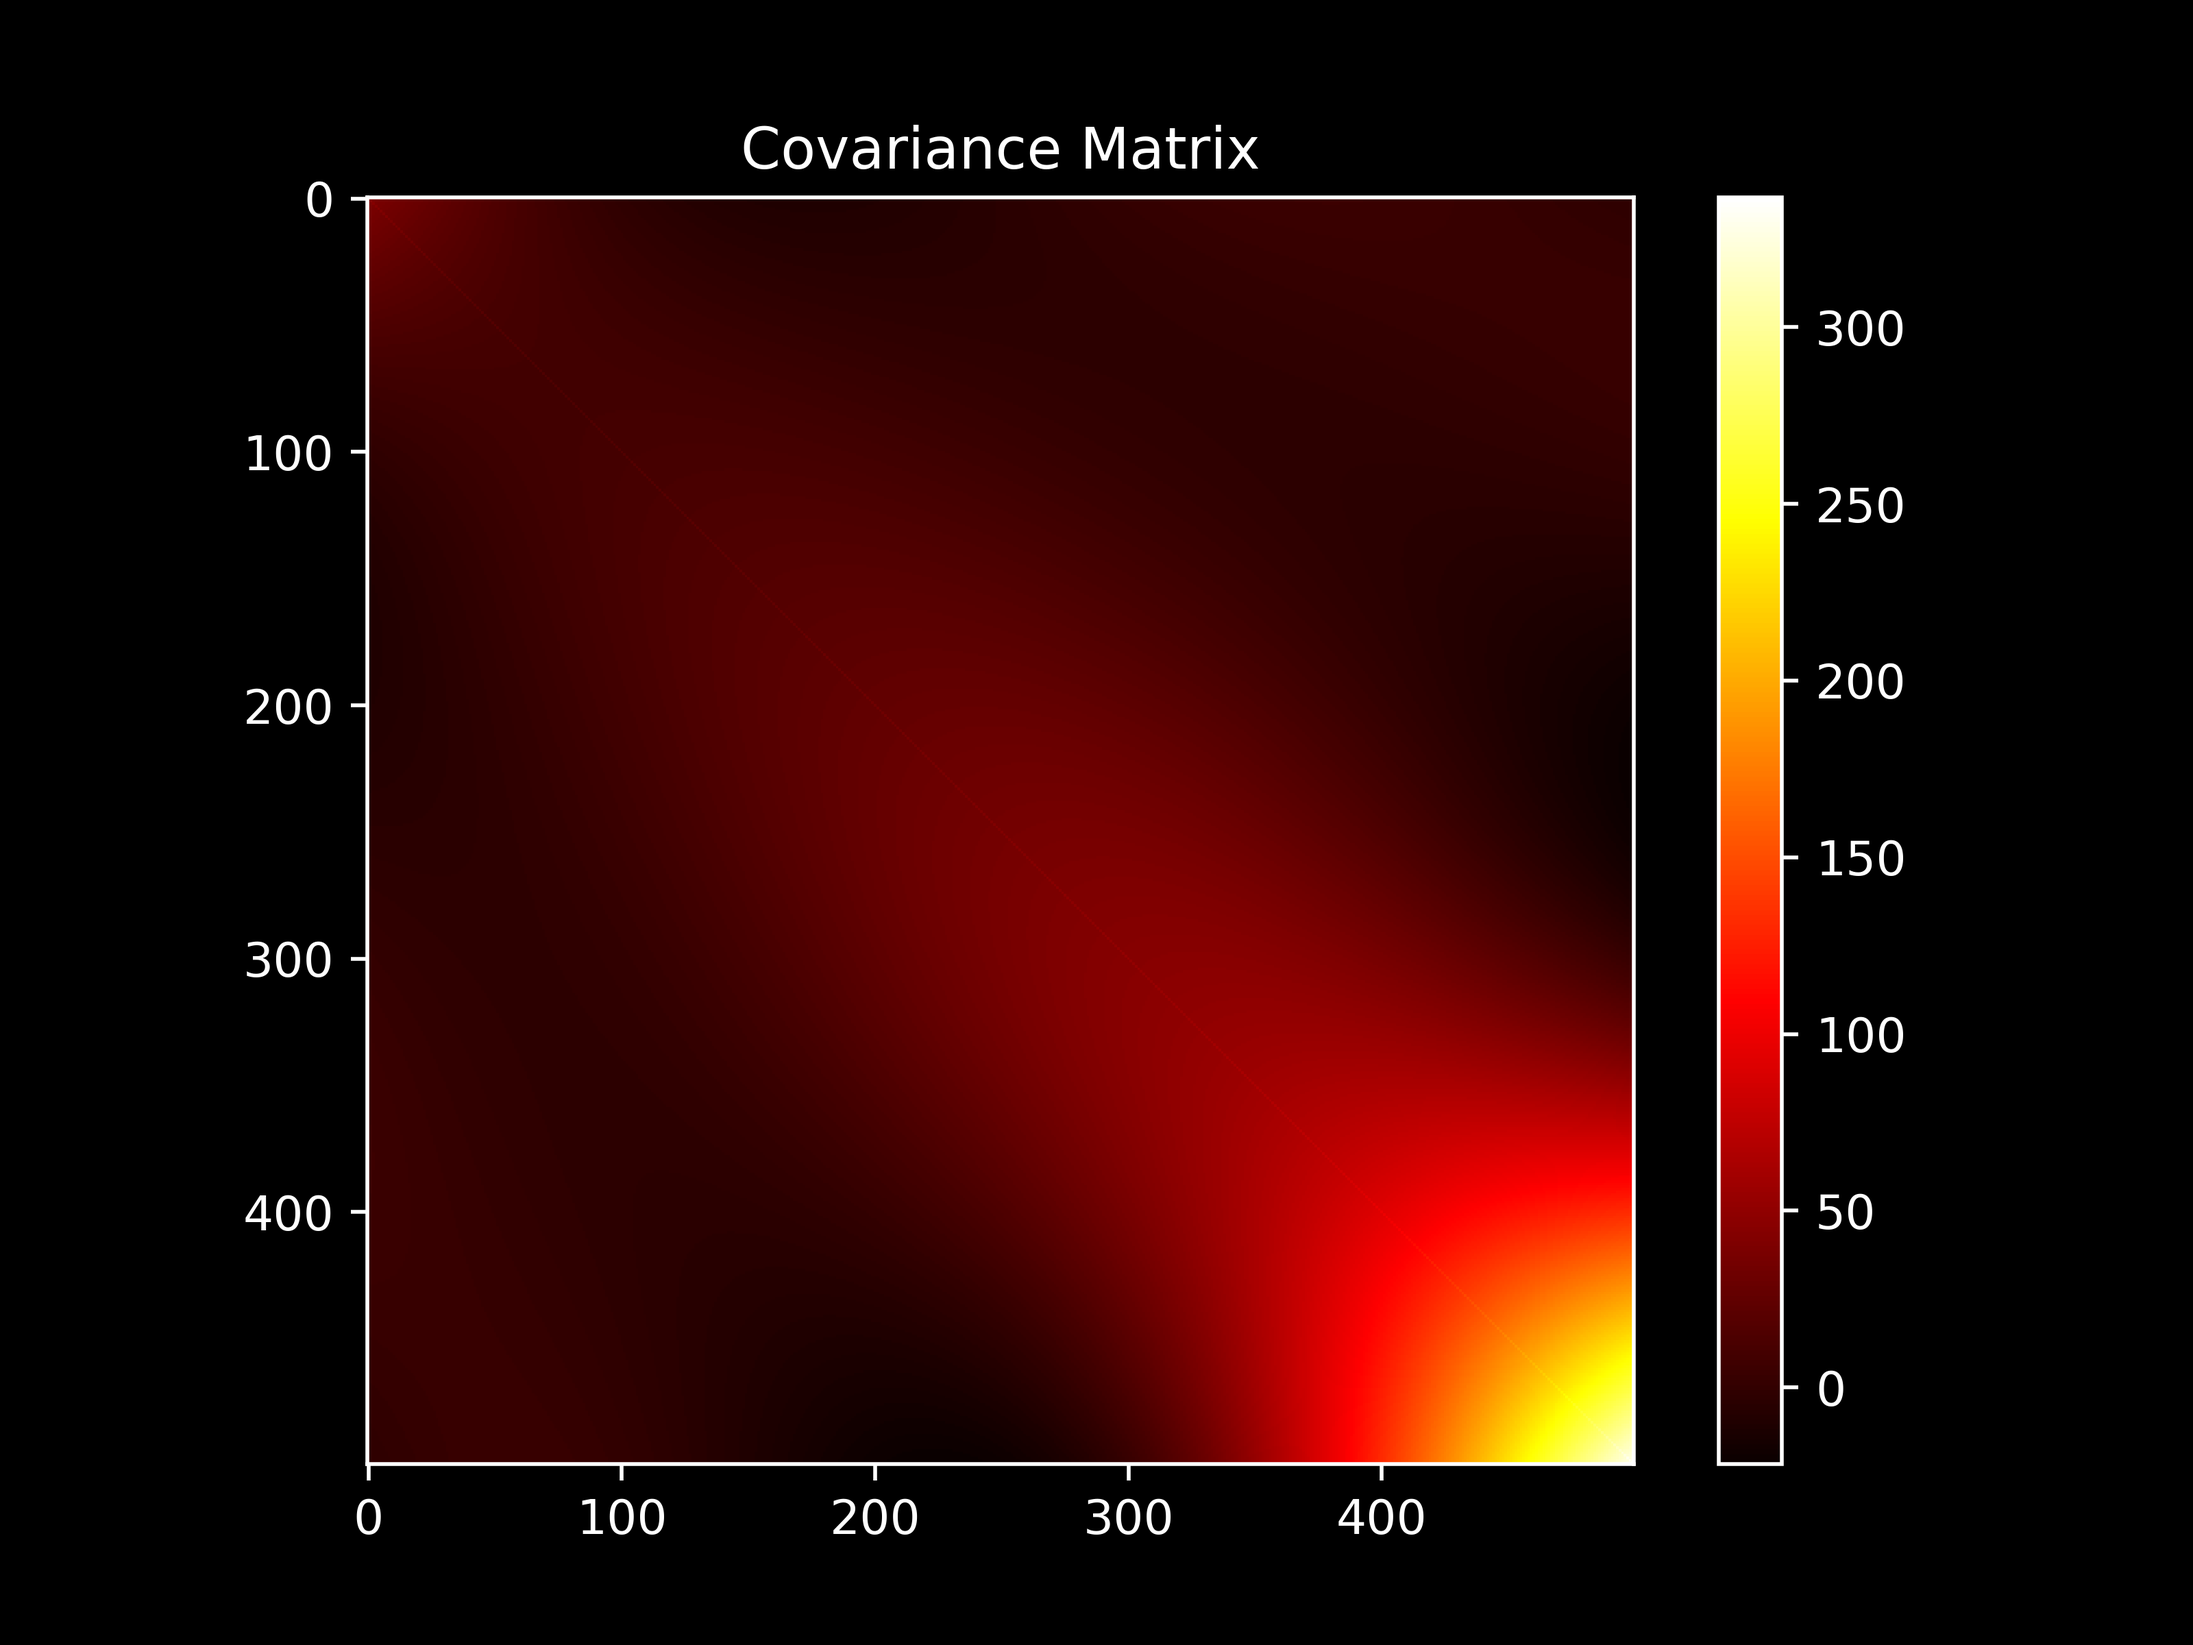
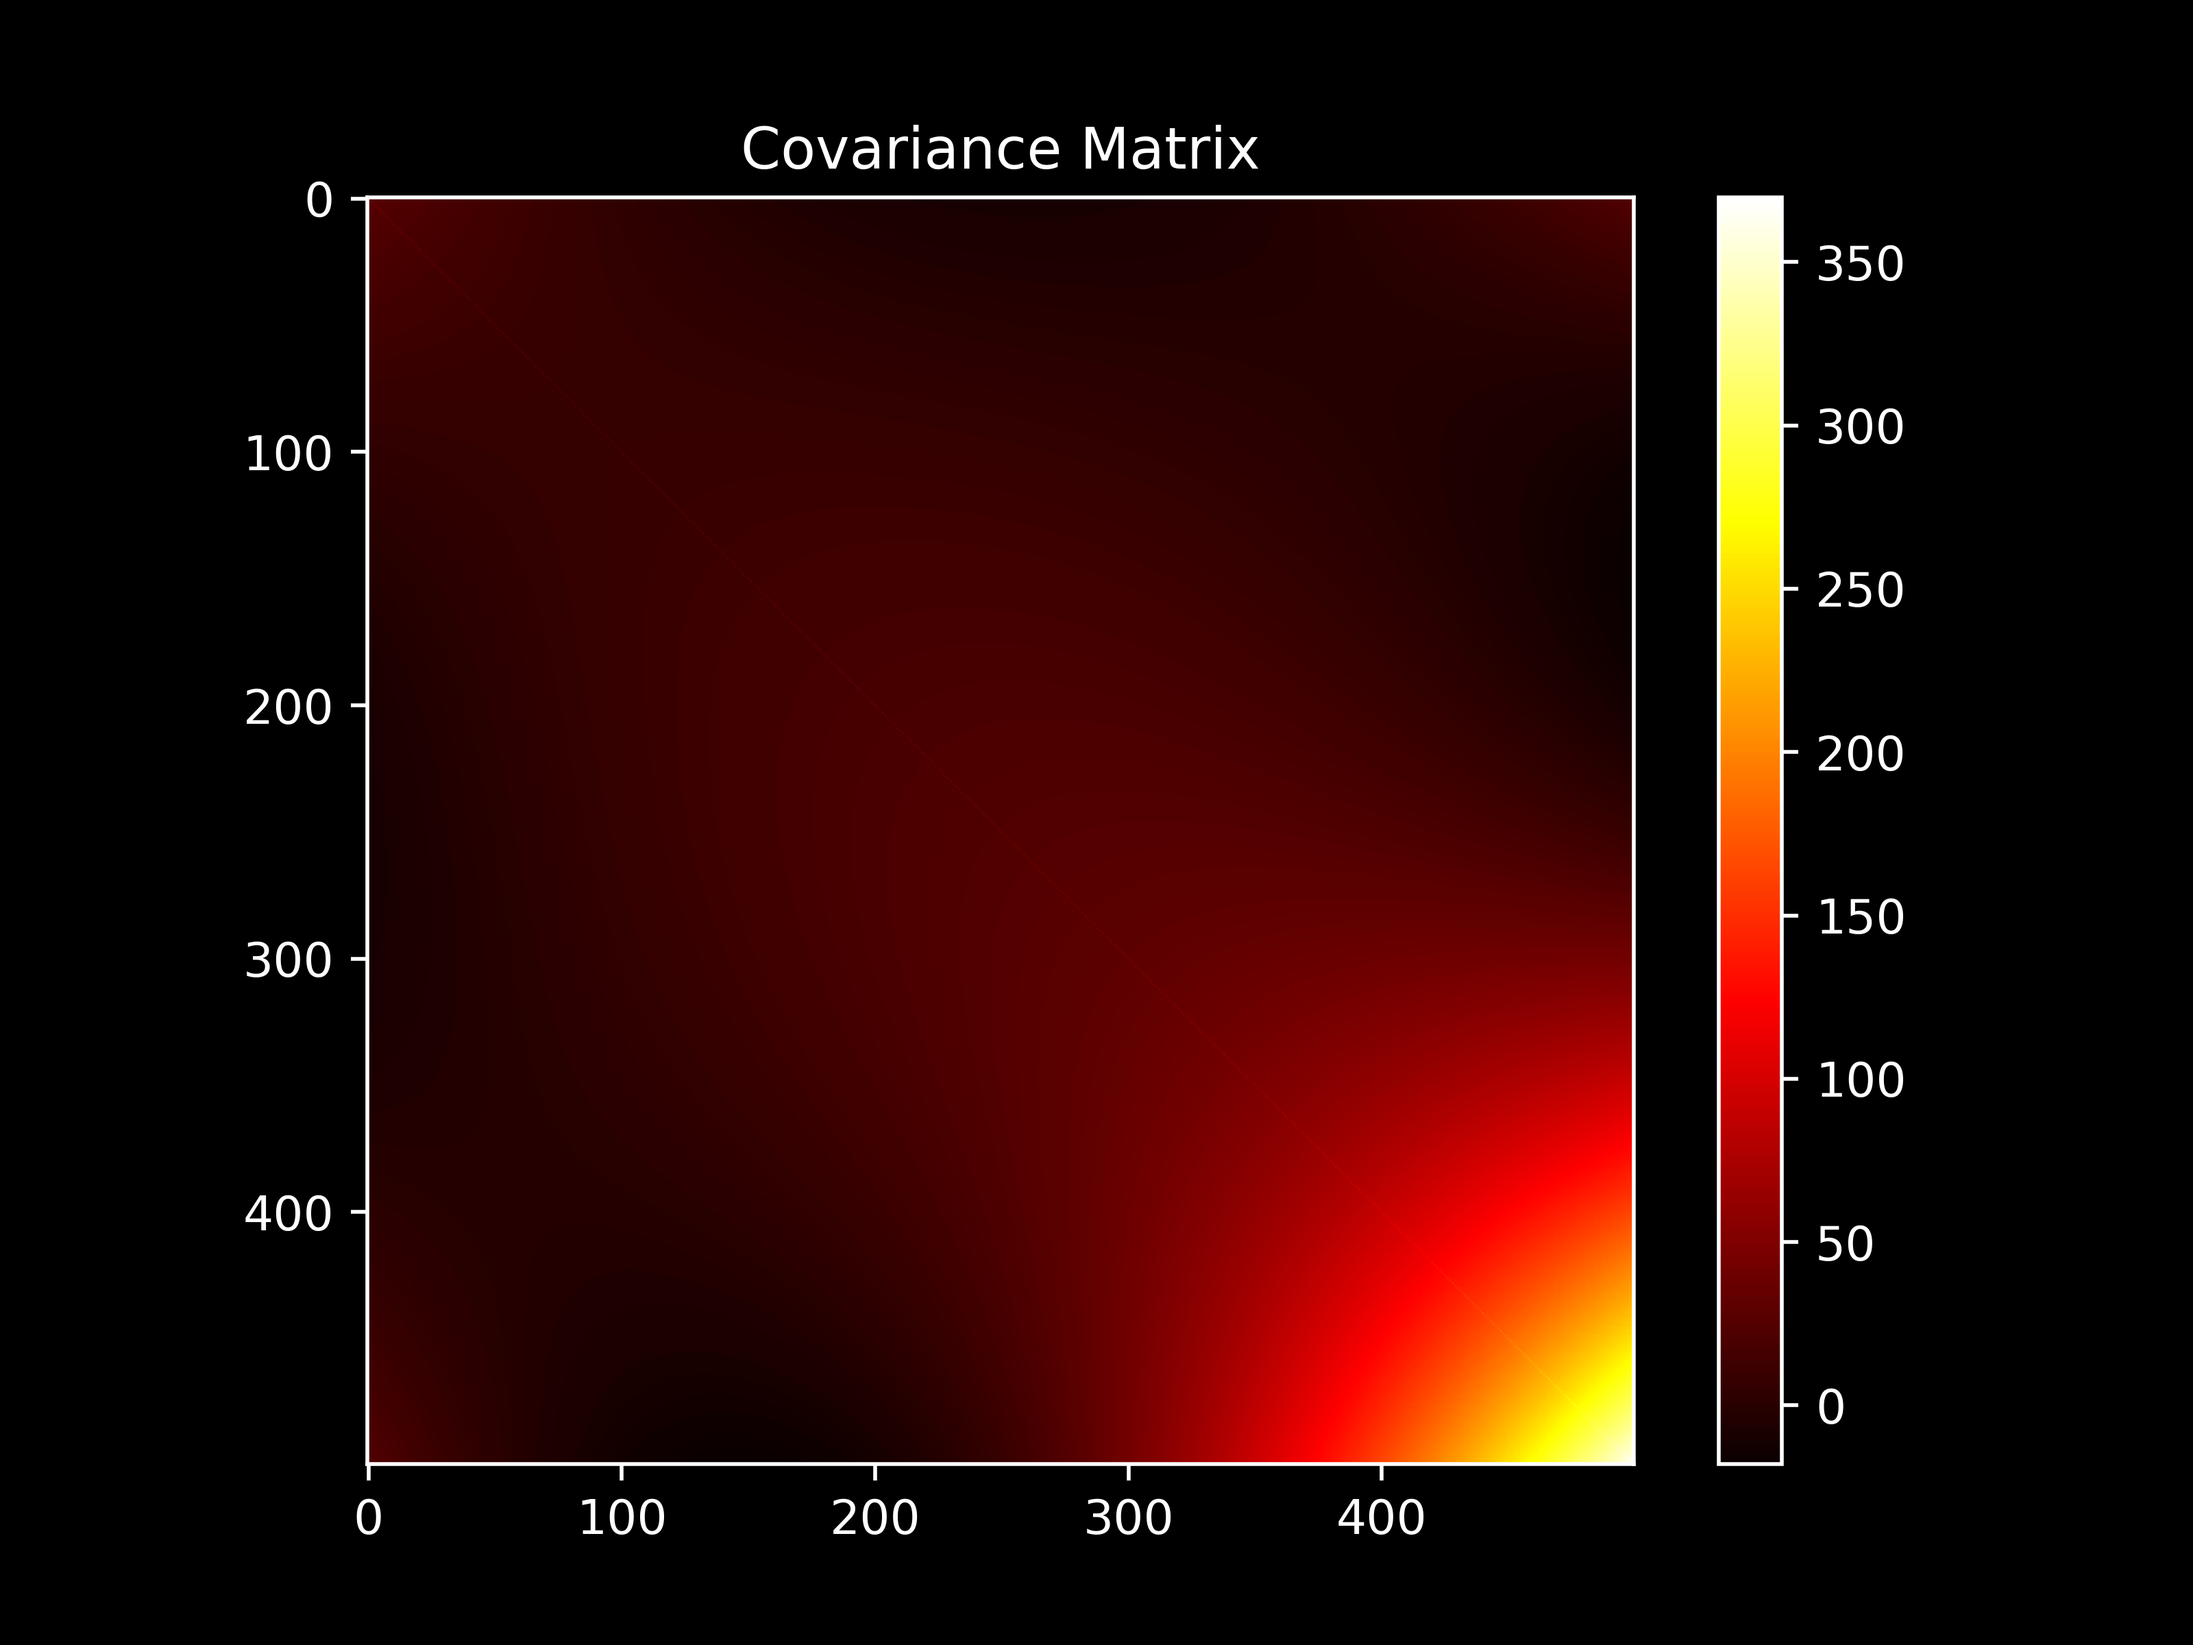
change to DotKernel()**3

diff --git a/cosmic_chronometers/cc_gp.py b/cosmic_chronometers/cc_gp.py
@@ -2,7 +2,7 @@ import numpy as np
 import matplotlib.pyplot as plt
 from matplotlib.colors import LogNorm
 from sklearn.gaussian_process import GaussianProcessRegressor
-from sklearn.gaussian_process.kernels import ConstantKernel as C, RBF, WhiteKernel
+from sklearn.gaussian_process.kernels import ConstantKernel as C, WhiteKernel, DotProduct
 from y2005cc.data import get_data
 
 legend, z_values, H_values, cov_matrix = get_data()
@@ -14,10 +14,8 @@ H_mean = np.mean(H_values)
 normalized_H = (H_values - H_mean) / H_std
 normalised_sigma = dH_values / H_std
 
-z_pred = np.linspace(0, z_values.max(), 500).reshape(-1, 1)
 
-# Define DotProduct kernel
-kernel = C() * RBF() + WhiteKernel(0.005, 'fixed')
+kernel = C() * DotProduct()**3 + WhiteKernel(0.005, 'fixed')
 gp = GaussianProcessRegressor(
     kernel=kernel,
     alpha=normalised_sigma**2,
@@ -26,14 +24,15 @@ gp = GaussianProcessRegressor(
 )
 gp.fit(z_values.reshape(-1,1), normalized_H.reshape(-1,1))
 
+z_pred = np.linspace(0, z_values.max(), 500).reshape(-1, 1)
 H_pred, cov_pred = gp.predict(z_pred, return_cov=True)
 cov_pred = cov_pred * H_std**2
 H_pred = H_pred * H_std + H_mean
 sigma = np.sqrt(np.diag(cov_pred))
 
-print("H0", f"{H_pred[0]:.2f} ± {sigma[0]:.2f}") # H0 73.06 ± 6.88 km/s/Mpc
-print("GP score:", gp.score(z_values, normalized_H)) # 0.881
-print("GP marginal likelihood value", gp.log_marginal_likelihood_value_ - H_values.size * np.log(H_std)) # -137.12
+print("H0", f"{H_pred[0]:.2f} ± {sigma[0]:.2f}") # H0 67.66 ± 5.79 km/s/Mpc
+print("GP score:", gp.score(z_values, normalized_H)) # 0.897
+print("GP marginal likelihood value", gp.log_marginal_likelihood_value_ - H_values.size * np.log(H_std)) # -137.5
 print("GP kernel", gp.kernel_)
 print("cov mat condition number", np.linalg.cond(cov_matrix)) # 232.6
 
@@ -58,20 +57,20 @@ plt.savefig('cosmic_chronometers/cc_gp_cov_matrix.png', dpi=500)
 plt.close()
 
 # Likelihood function
-c0 = np.logspace(-3, 5, num=100)
-length_scale = np.logspace(-5, 4, num=100)
-c0_grid, length_scale_grid = np.meshgrid(c0, length_scale)
+s0 = np.logspace(-5, 5, num=100)
+offset = np.logspace(-5, 5, num=100)
+s0_grid, offset_grid = np.meshgrid(s0, offset)
 
 log_marginal_likelihood = [
     gp.log_marginal_likelihood(theta=np.log([c0_v, scale_v]))
-    for c0_v, scale_v in zip(c0_grid.ravel(), length_scale_grid.ravel())
+    for c0_v, scale_v in zip(s0_grid.ravel(), offset_grid.ravel())
 ]
-log_marginal_likelihood = np.reshape(log_marginal_likelihood, length_scale_grid.shape)
+log_marginal_likelihood = np.reshape(log_marginal_likelihood, offset_grid.shape)
 vmin, vmax = (-log_marginal_likelihood).min(), 150
 level = np.around(np.logspace(np.log10(vmin), np.log10(vmax), num=20), decimals=1)
 plt.contour(
-    c0_grid,
-    length_scale_grid,
+    s0_grid,
+    offset_grid,
     -log_marginal_likelihood,
     levels=level,
     norm=LogNorm(vmin=vmin, vmax=vmax),
@@ -79,8 +78,8 @@ plt.contour(
 plt.colorbar()
 plt.xscale("log")
 plt.yscale("log")
-plt.xlabel("$c_0$")
-plt.ylabel("length scale")
+plt.xlabel("$\sigma_0$")
+plt.ylabel("offset")
 plt.title("Negative log-marginal-likelihood")
 plt.savefig('cosmic_chronometers/cc_gp_likelihood.png', dpi=500)
 plt.close()
